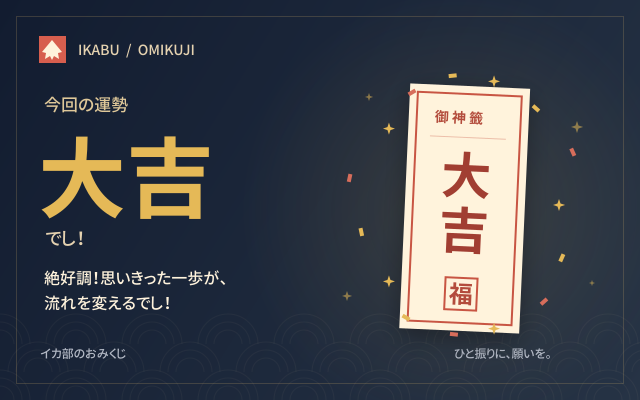
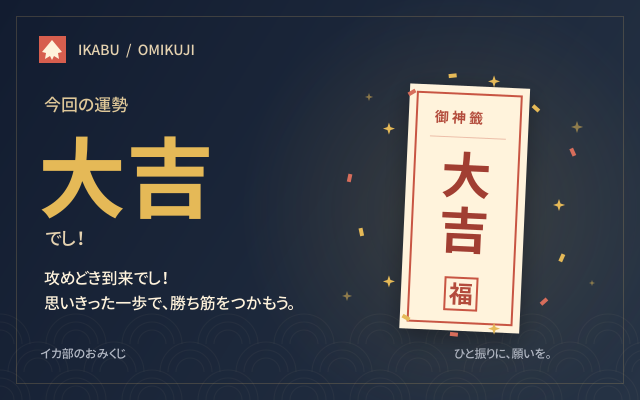
feat: 全運勢のひとことをスプラらしい文言に調整

Changed region(s): [[0.0625, 0.66, 0.4688, 0.78]]

diff --git a/src/features/omikuji/fortunes.ts b/src/features/omikuji/fortunes.ts
@@ -3,13 +3,13 @@ export const fortunes = [
         id: 'daikichi',
         name: '大吉',
         color: 0xe5b957,
-        message: '絶好調！思いきった一歩が、流れを変えるでし！',
+        message: '攻めどき到来でし！思いきった一歩で、勝ち筋をつかもう。',
     },
     {
         id: 'chukichi',
         name: '中吉',
         color: 0xe78873,
-        message: 'いい波が来てるでし！仲間と進めば、もっと遠くへ。',
+        message: '仲間との連携が光るでし！息を合わせれば、いい波に乗れそう。',
     },
     {
         id: 'shokichi',
@@ -33,13 +33,13 @@ export const fortunes = [
         id: 'daikyo',
         name: '大凶',
         color: 0xa3aec4,
-        message: 'ここから上がるだけでし！今日はじっくり力をためよう。',
+        message: 'ここから巻き返すでし！まずはリスポーン、仕切り直そう。',
     },
     {
         id: 'suekichi',
         name: '末吉',
         color: 0xd0bd87,
-        message: '楽しみはこれからでし。コツコツ進めば、きっと実る！',
+        message: '今はスペシャルをためるとき。コツコツ塗れば、出番が来るでし！',
     },
 ] as const;
 
